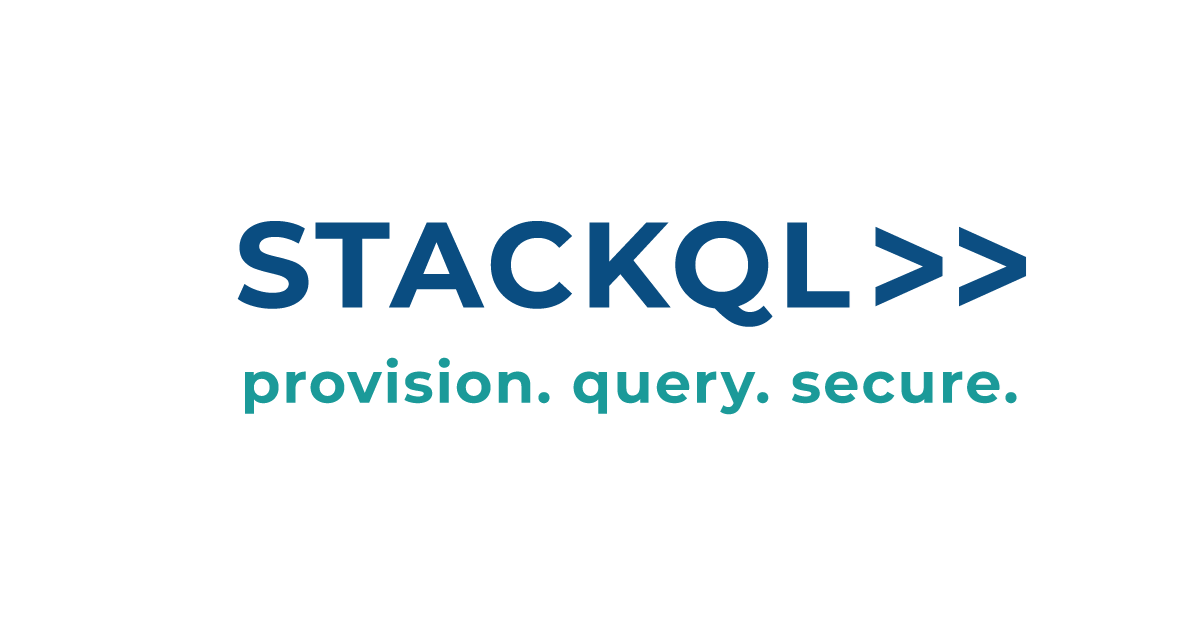
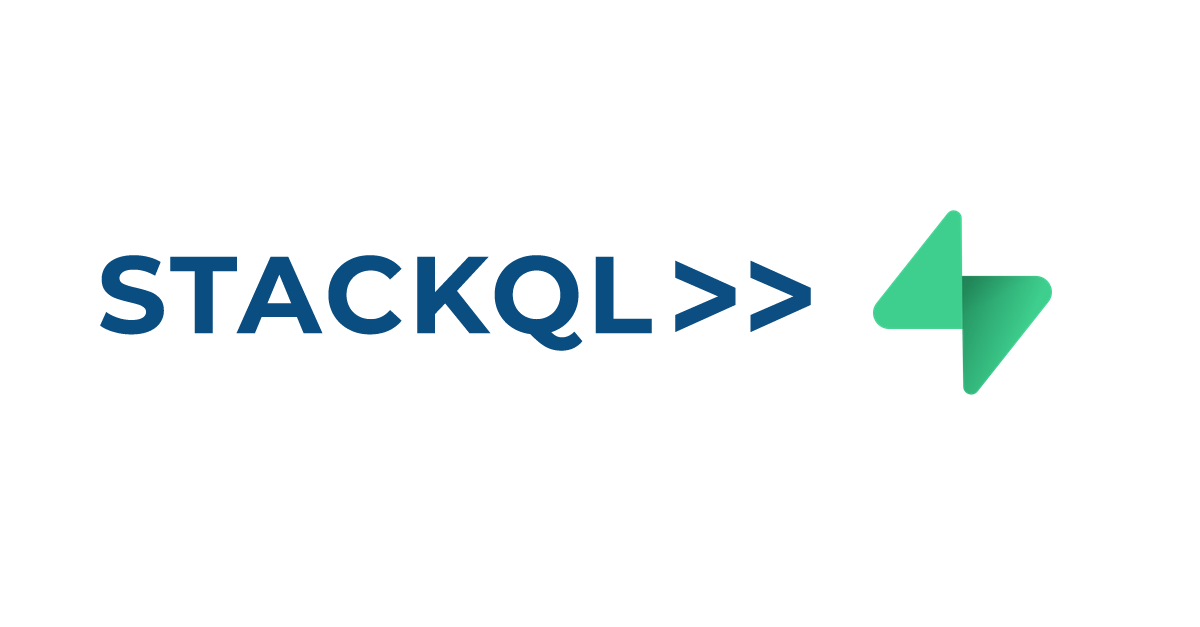
website: Supabase featured image, edit links, docs header corrections
Featured image composed in the house style (STACKQL>> wordmark plus the
Supabase mark, 1200x627) replacing the generic placeholder; projectName
and editUrl set as on the snowflake site; the index copy corrected to
158 operations / 14 services / 65 resources, with notes on token scope
and the empty postgres_configs case. Docs regenerated with make docs.

Changed region(s): [[0.0617, 0.3333, 0.8942, 0.6667]]

diff --git a/website/docusaurus.config.js b/website/docusaurus.config.js
@@ -16,6 +16,14 @@ const config = createConfig({
   },
 });
 
+// This provider's website lives at website/ within the canonical
+// stackql-registry/stackql-provider-supabase repo, so the "Edit this page"
+// links point at that subdirectory (the shared config default omits the
+// website/ path).
+config.projectName = 'stackql-provider-supabase';
+config.presets[0][1].docs.editUrl =
+  'https://github.com/stackql-registry/stackql-provider-supabase/edit/main/website/';
+
 // Use the locally vendored registry-branded logos (STACKQL>> | REGISTRY)
 // instead of the shared config's hotlinked main-site wordmark -
 // self-contained assets, no cross-origin fetch. global.css swaps in the

diff --git a/website/docs/index.md b/website/docs/index.md
@@ -46,7 +46,7 @@ REGISTRY PULL supabase;
 
 ## Scope
 
-This provider covers the Supabase Management API at `https://api.supabase.com` (the control plane): organizations, projects, branches, functions, secrets, configuration, domains, networking, backups, billing add-ons, advisors, analytics and the project SQL query endpoint. The per-project data APIs (PostgREST at `<ref>.supabase.co/rest/v1`, Realtime, Storage object I/O, GoTrue user-facing auth) are per-project hosts with per-project keys - a different surface, reserved as a possible future `supabase_project` sibling provider. Supabase's official Terraform provider is labelled Public Alpha by the vendor and covers seven resources; this provider's surface is generated mechanically from the vendor's published OpenAPI document (159 operations across 15 services).
+This provider covers the Supabase Management API at `https://api.supabase.com` (the control plane): organizations, projects, branches, functions, secrets, configuration, domains, networking, backups, billing add-ons, advisors, analytics and the project SQL query endpoint. The per-project data APIs (PostgREST at `<ref>.supabase.co/rest/v1`, Realtime, Storage object I/O, GoTrue user-facing auth) are per-project hosts with per-project keys - a different surface, reserved as a possible future `supabase_project` sibling provider. Supabase's official Terraform provider is labelled Public Alpha by the vendor and covers seven resources; this provider's surface is generated mechanically from the vendor's published OpenAPI document (158 operations across 14 services and 65 resources).
 
 ## Authentication
 
@@ -63,6 +63,8 @@ or using PowerShell:
 $env:SUPABASE_ACCESS_TOKEN = 'sbp_...'
 $env:SUPABASE_PROJECT_ID = 'abcdefghijklmnopqrst'
 ```
+
+Organization-scoped access tokens work throughout the provider except `profile.profiles`, which requires a user-scoped (personal) token.
 
 ## Project scope
 
@@ -88,6 +90,10 @@ The Management API allows a fixed number of requests per minute per user (docume
 ## Beta endpoints
 
 The vendor labels part of the surface `[Beta]` (and one endpoint `[Alpha]`); the label is carried through as the first line of each method's description. The query endpoint, network restrictions and bans, custom domains, SSL enforcement, read replicas, JIT access and the upgrade surface are beta. A few operations are deprecated by the vendor (the advisors reads, `logs.all`, the database context read and the JSON edge function create) and stay mapped with the deprecation noted. Refreshes of the provider are reviewed spec diffs against a content-hash pin.
+
+## Known limitations
+
+`config.postgres_configs` returns the Postgres settings a project has overridden. On a project with no overrides the API returns an empty object, which the current StackQL engine cannot materialise as a row - the query returns no rows (an `sql insert error` in verbose output) rather than a row of nulls. Projects with at least one override return the row as expected.
 
 ## Example queries
 
